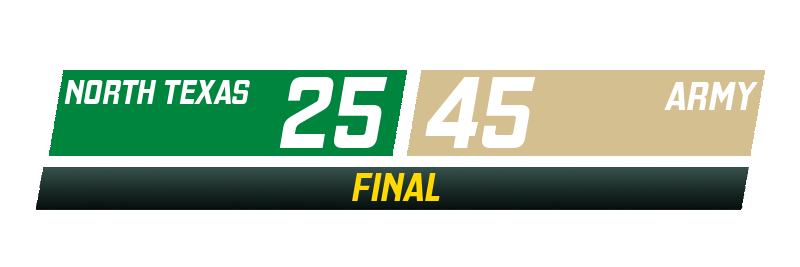
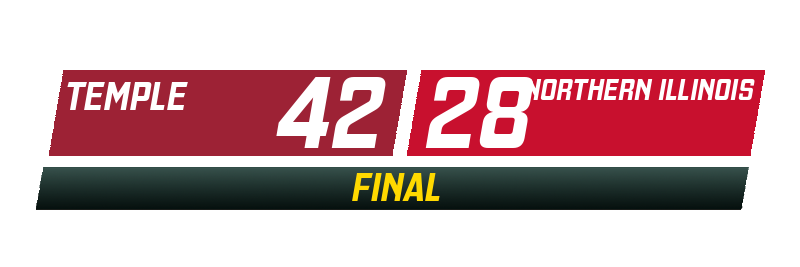
fix data.txt bug and move possession for 20 on scorebug

Changed region(s): [[0.0625, 0.2397, 0.9688, 0.5993]]

diff --git a/scorebug_drawer.py b/scorebug_drawer.py
@@ -112,7 +112,7 @@ def add_possession(img, home_team, away_team, possession, home_score, away_score
         if home_score < 10:
             draw.ellipse((496, 105, 506, 115), fill=(255, 255, 255, 255))
         elif 20 <= home_score < 30:
-            draw.ellipse((534, 105, 544, 115), fill=(255, 255, 255, 255))
+            draw.ellipse((539, 105, 549, 115), fill=(255, 255, 255, 255))
         elif home_score >= 30:
             draw.ellipse((535, 105, 545, 115), fill=(255, 255, 255, 255))
         else:

diff --git a/win_probability.py b/win_probability.py
@@ -48,7 +48,7 @@ def get_in_game_win_probability(home_team, away_team):
         away_elo = get_elo(away_team, team_elo_column, elo_data_column)
     
     # Iterate through playlist file
-    with open('data.txt', 'r') as csvfile:
+    with open('/home/ubuntu/FCFB/FCFB-Score-Bot/data.txt', 'r') as csvfile:
         reader = csv.reader(csvfile, delimiter='|', lineterminator='\n')
         i = 0
         last_play_possession_change = False

diff --git a/game_thread_information.py b/game_thread_information.py
@@ -147,7 +147,7 @@ def save_github_data(submission_body, season):
     url = parse_url_from_game_thread(submission_body, season)
     if url != "NO PLAYS":
         data = parse_data_from_github(url)
-        text_file = open("data.txt", "w")
+        text_file = open("/home/ubuntu/FCFB/FCFB-Score-Bot/data.txt", "w")
         text_file.write(data)
         text_file.close()
     return url
